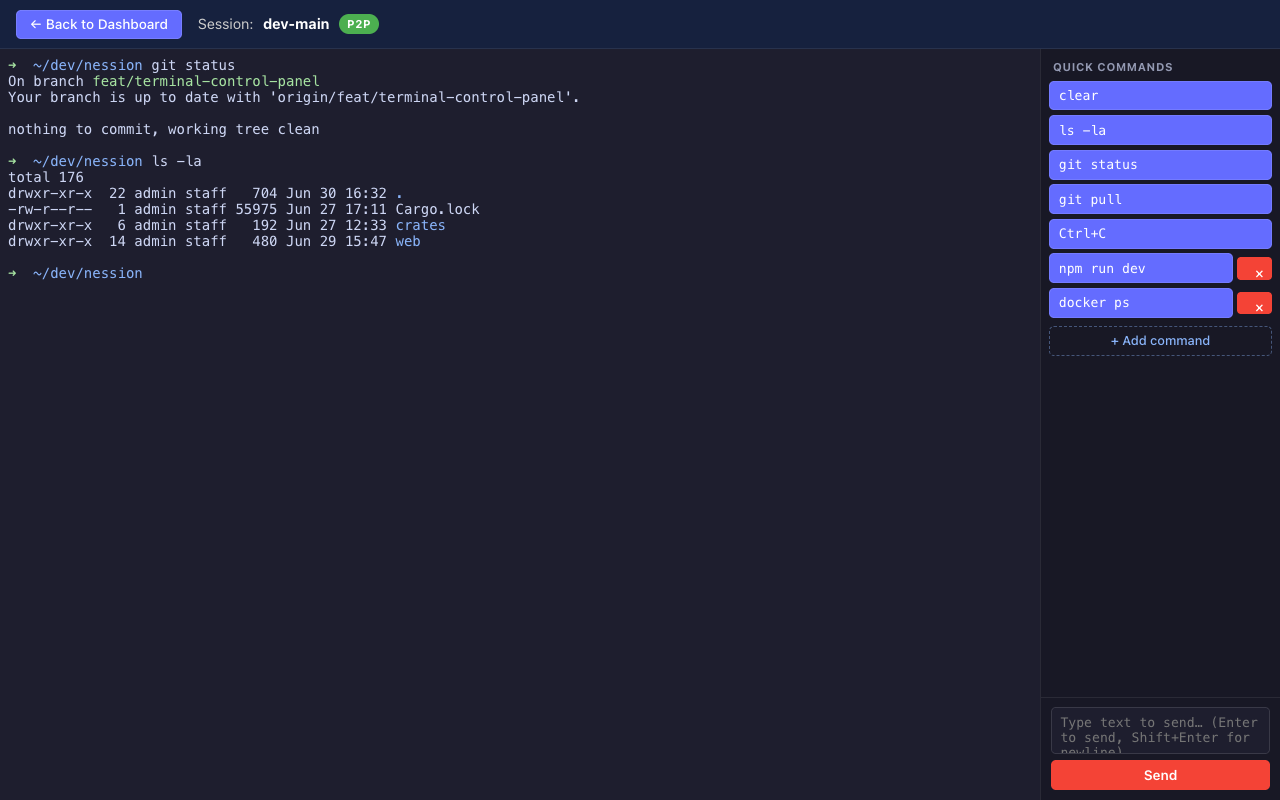
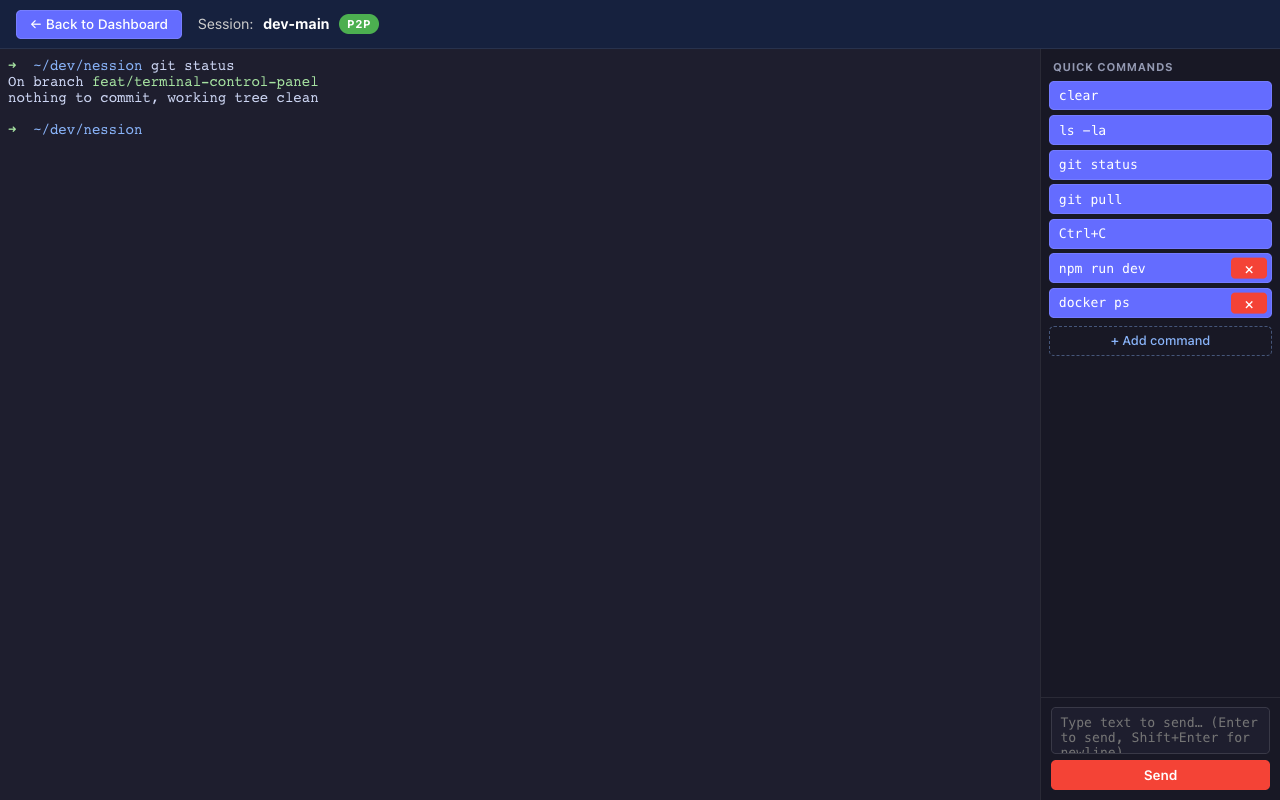
style(web): polish control panel command rows and mobile layout
- Command buttons are now uniform width (preset + user identical); the
  delete × is overlaid at the right end of the same row instead of taking
  its own column.
- Mobile: command list takes a smaller share and scrolls; the free-text
  input area is taller for easier typing.

Changed region(s): [[0.0, 0.1562, 0.375, 0.3438], [0.0, 0.0625, 0.4375, 0.125], [0.9375, 0.3125, 1.0, 0.4062]]

diff --git a/web/src/components/ControlPanel.css b/web/src/components/ControlPanel.css
@@ -34,16 +34,17 @@
 }
 
 .control-panel-command-row {
-  display: flex;
-  align-items: center;
-  gap: 0.25rem;
+  position: relative; /* positioning context for the overlaid delete button */
   margin-bottom: 0.3rem;
 }
 
 .control-panel-command-btn {
-  flex: 1;
+  display: block;
+  width: 100%; /* every command button is the same width (preset + user) */
   text-align: left;
-  padding: 0.4rem 0.55rem;
+  /* uniform right padding leaves room for the × on user commands, so all
+     buttons share the same text area and look identical */
+  padding: 0.4rem 1.8rem 0.4rem 0.55rem;
   font-size: 0.82rem;
   font-family: 'JetBrains Mono', Menlo, Monaco, monospace;
   background-color: #1e1e2e;
@@ -62,12 +63,20 @@
   border-color: rgba(255, 255, 255, 0.25);
 }
 
+/* Delete control overlaid at the right end of the command row, on the same
+   line as the command — does not affect the button's width. */
 .control-panel-delete-btn {
-  flex: none;
-  width: 1.4rem;
-  height: 1.4rem;
+  position: absolute;
+  top: 50%;
+  right: 0.3rem;
+  transform: translateY(-50%);
+  width: 1.3rem;
+  height: 1.3rem;
+  display: flex;
+  align-items: center;
+  justify-content: center;
   line-height: 1;
-  font-size: 0.9rem;
+  font-size: 0.95rem;
   background: transparent;
   color: #6c7086;
   border: none;
@@ -77,7 +86,7 @@
 
 .control-panel-delete-btn:hover {
   color: #f38ba8;
-  background-color: rgba(243, 139, 168, 0.12);
+  background-color: rgba(243, 139, 168, 0.18);
 }
 
 /* ── Add-command form ────────────────────────────────────────────── */
@@ -178,9 +187,27 @@
 @media (max-width: 768px) {
   .control-panel {
     width: 100%;
+    /* taller panel overall so the bigger input has room; the command list
+       inside still scrolls rather than pushing the input off-screen */
     height: auto;
-    max-height: 45%;
+    max-height: 55%;
     border-left: none;
     border-top: 1px solid rgba(255, 255, 255, 0.08);
+  }
+
+  /* Commands take a smaller share and scroll within it. */
+  .control-panel-commands {
+    flex: 1 1 auto;
+    max-height: 38vh;
+    overflow-y: auto;
+  }
+
+  /* Input area gets more room and a taller textarea on mobile. */
+  .control-panel-input-area {
+    flex: none;
+  }
+
+  .control-panel-input-area textarea {
+    min-height: 4.5rem;
   }
 }
